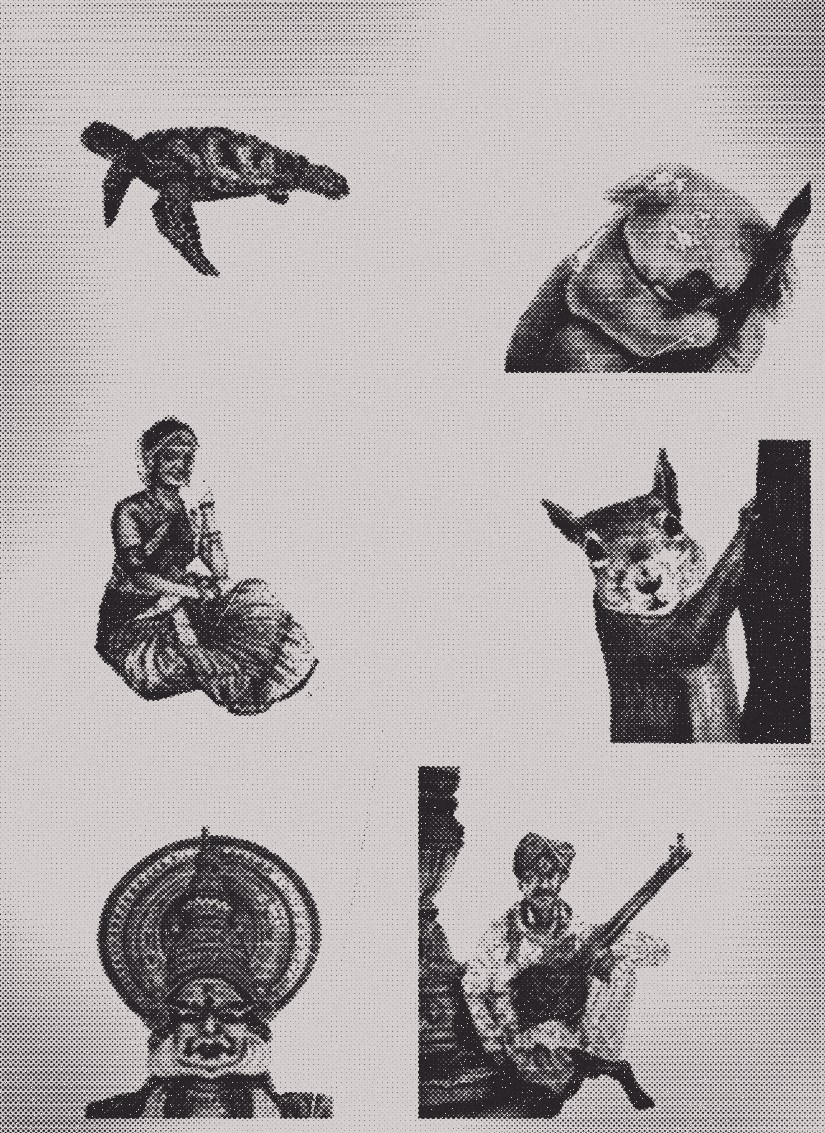
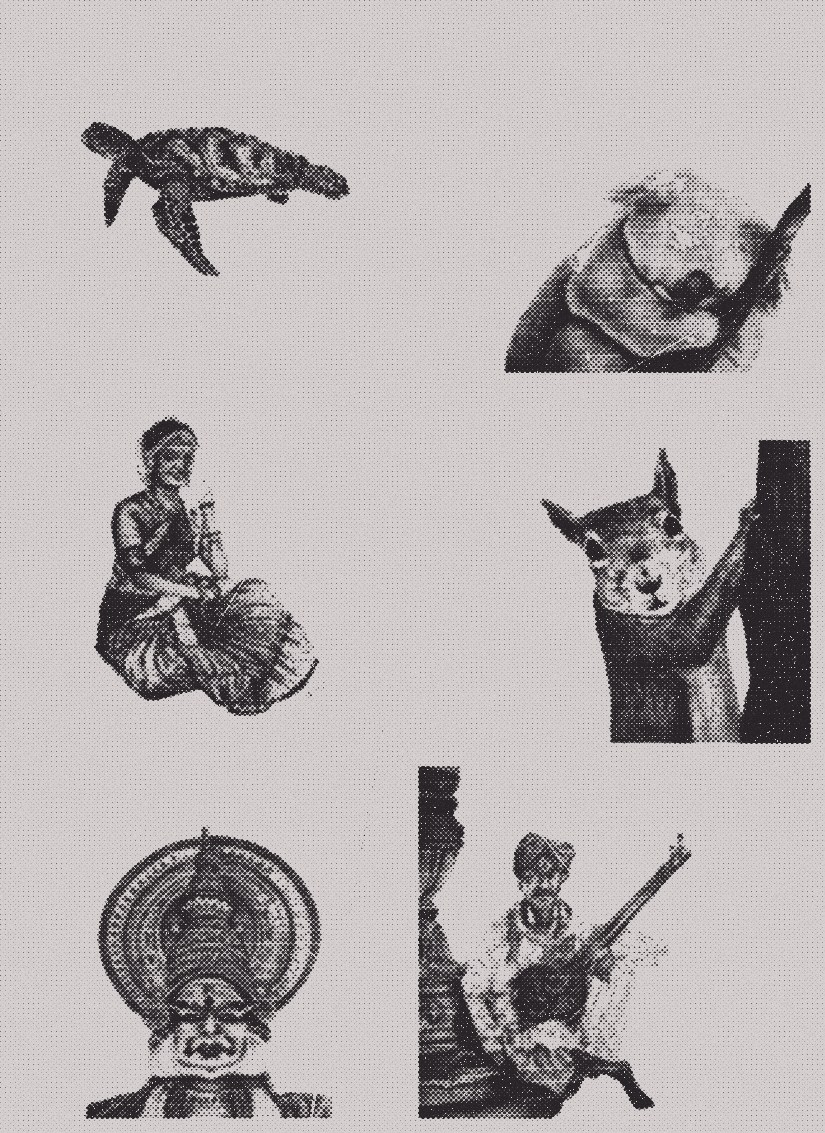
About: the sketches' paper without the dark corners

diff --git a/index.html b/index.html
@@ -945,7 +945,7 @@
             <h2 style="left: 40px; top: 30px; transform: rotate(-2deg)">sketches</h2>
             <!-- the pen portraits (moved here from the first spread): bigger, the clean print with only a light photocopy feel -->
             <figure class="abCopy" style="left: 120px; top: 110px; transform: rotate(-4deg)">
-              <div class="tear noTear" style="padding: 14px; background: #ECE8DF url(assets/about/paper-white.jpg) center / cover"><img src="assets/about/pen-copy4.jpg?v=2" alt="Pen portraits: a turtle, a koala, a dancer, a squirrel, a Kathakali face and a warkari" width="400" height="550"></div>
+              <div class="tear noTear" style="padding: 14px; background: #ECE8DF url(assets/about/paper-white.jpg) center / cover"><img src="assets/about/pen-copy4.jpg?v=3" alt="Pen portraits: a turtle, a koala, a dancer, a squirrel, a Kathakali face and a warkari" width="400" height="550"></div>
             </figure>
             <div class="abNote" style="left: 110px; top: 720px; width: 460px; transform: rotate(-1deg); text-align: center">sketches —<br>a turtle, a sleepy koala &amp; a few faces</div>
           </div>
